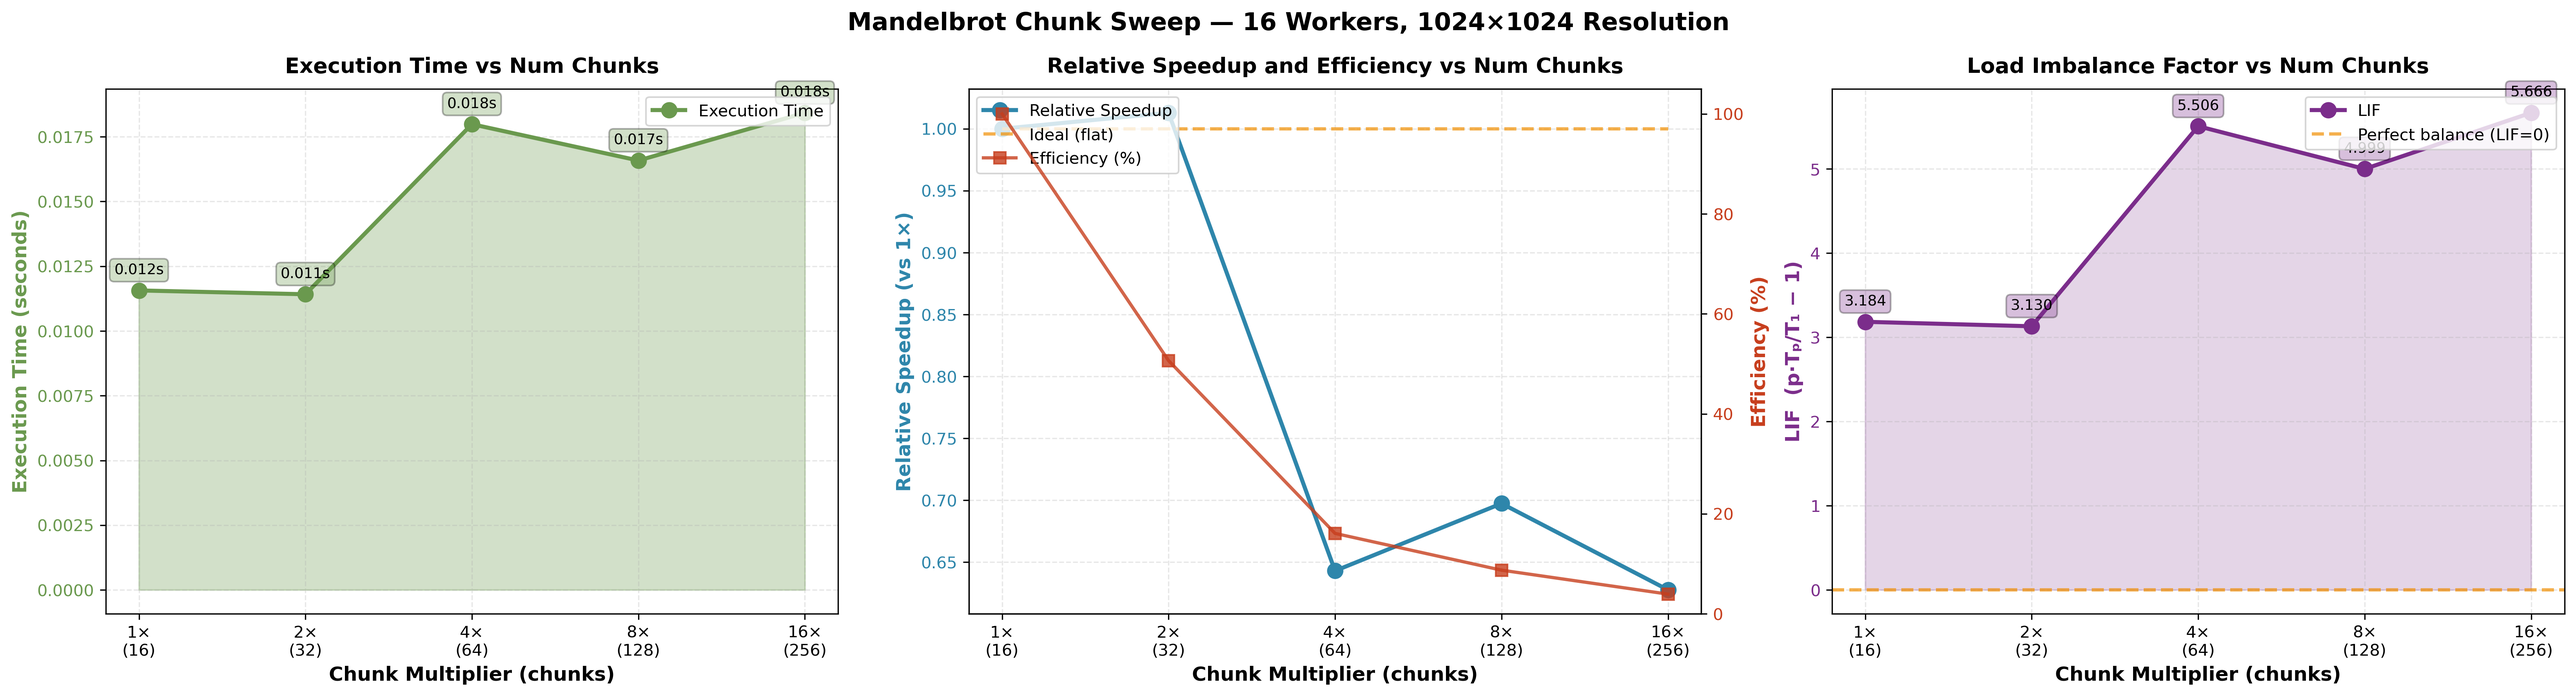
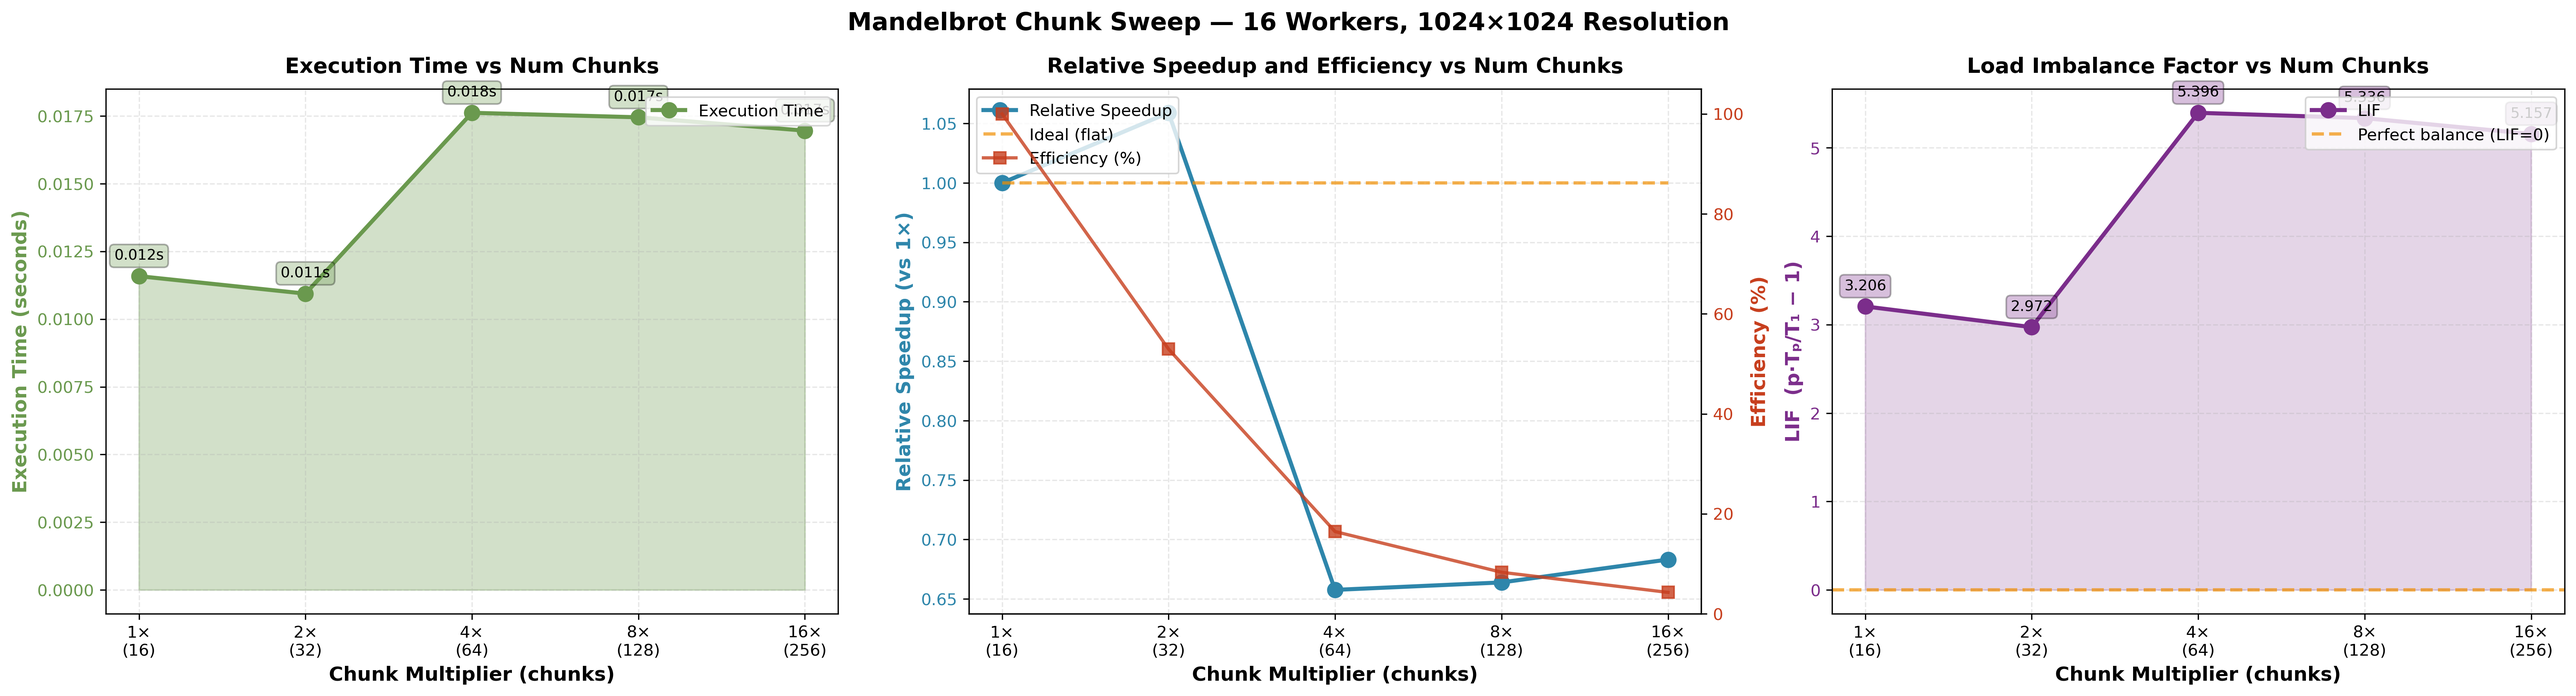
L5/M1-M3* - Omits fixed: T1 and LIF added to table and print.

diff --git a/cpu_parallelization/mandelbrot_numba_parallel.py b/cpu_parallelization/mandelbrot_numba_parallel.py
@@ -369,28 +369,28 @@ def parallel_benchmark_whole(N: int):
     ======================================================================
     Workers    Time (s)     Speedup      Efficiency (%) 
     ----------------------------------------------------------------------
-    1          0.0557       1.00         100.0          
-    2          0.0274       2.03         101.6          
-    3          0.0369       1.51         50.4           
-    4          0.0238       2.34         58.5           
-    5          0.0259       2.15         43.1           
-    6          0.0203       2.75         45.8           
-    7          0.0202       2.76         39.4           
-    8          0.0167       3.35         41.8           
-    9          0.0163       3.43         38.1           
-    10         0.0150       3.72         37.2           
-    11         0.0140       3.98         36.2           
-    12         0.0132       4.22         35.2           
-    13         0.0127       4.39         33.8           
-    14         0.0120       4.65         33.2           
-    15         0.0115       4.84         32.3           
-    16         0.0112       4.96         31.0           
+    1          0.0553       1.00         100.0          
+    2          0.0287       1.92         96.2           
+    3          0.0365       1.52         50.5           
+    4          0.0236       2.34         58.5           
+    5          0.0260       2.13         42.6           
+    6          0.0200       2.76         46.0           
+    7          0.0199       2.77         39.6           
+    8          0.0169       3.27         40.9           
+    9          0.0163       3.38         37.6           
+    10         0.0145       3.81         38.1           
+    11         0.0141       3.92         35.6           
+    12         0.0131       4.23         35.2           
+    13         0.0136       4.06         31.3           
+    14         0.0122       4.54         32.4           
+    15         0.0116       4.78         31.9           
+    16         0.0115       4.82         30.1           
     ======================================================================
     
     Key Metrics:
-      Serial time (1 worker):    0.0557s
-      Fastest time (16 workers): 0.0112s
-      Best speedup:              4.96x
+      Serial time (1 worker):    0.0553s
+      Fastest time (16 workers): 0.0115s
+      Best speedup:              4.82x
     
     ######################################################################
     
@@ -399,28 +399,28 @@ def parallel_benchmark_whole(N: int):
     ======================================================================
     Workers    Time (s)     Speedup      Efficiency (%) 
     ----------------------------------------------------------------------
-    1          0.9046       1.00         100.0          
-    2          0.5036       1.80         89.8           
-    3          0.5960       1.52         50.6           
-    4          0.3883       2.33         58.2           
-    5          0.4131       2.19         43.8           
-    6          0.3002       3.01         50.2           
-    7          0.2966       3.05         43.6           
-    8          0.2481       3.65         45.6           
-    9          0.2383       3.80         42.2           
-    10         0.2056       4.40         44.0           
-    11         0.1993       4.54         41.3           
-    12         0.1836       4.93         41.1           
-    13         0.1746       5.18         39.8           
-    14         0.1614       5.60         40.0           
-    15         0.1539       5.88         39.2           
-    16         0.1466       6.17         38.6           
+    1          0.9126       1.00         100.0          
+    2          0.5125       1.78         89.0           
+    3          0.6002       1.52         50.7           
+    4          0.4013       2.27         56.9           
+    5          0.4270       2.14         42.7           
+    6          0.3035       3.01         50.1           
+    7          0.2977       3.07         43.8           
+    8          0.2462       3.71         46.3           
+    9          0.2378       3.84         42.6           
+    10         0.2094       4.36         43.6           
+    11         0.2007       4.55         41.3           
+    12         0.1867       4.89         40.7           
+    13         0.1735       5.26         40.5           
+    14         0.1619       5.64         40.3           
+    15         0.1560       5.85         39.0           
+    16         0.1477       6.18         38.6           
     ======================================================================
     
     Key Metrics:
-      Serial time (1 worker):    0.9046s
-      Fastest time (16 workers): 0.1466s
-      Best speedup:              6.17x
+      Serial time (1 worker):    0.9126s
+      Fastest time (16 workers): 0.1477s
+      Best speedup:              6.18x
     """
 
 
@@ -557,17 +557,18 @@ def parallel_benchmark_chunkified(N: int):
     print(f"\nPlot saved as '{output_file}'")
 
     print(f"\n{'=' * 75}")
-    print(f"Chunk Sweep Summary ({N}×{N} resolution; {num_workers} workers):")
+    print(f"Chunk Sweep Summary ({N}×{N} resolution; {num_workers} workers; T1={T1:.4f}s):")
     print(f"{'=' * 75}")
-    print(f"{'Multiplier':<12} {'Chunks':<10} {'Time (s)':<12} {'Speedup':<12} {'Efficiency (%)':<15}")
+    print(f"{'Multiplier':<12} {'Chunks':<10} {'Time (s)':<12} {'Speedup':<12} {'Efficiency (%)':<16} {'LIF':<8}")
     print(f"{'-' * 75}")
     for i, (m, c) in enumerate(zip(chunk_multipliers, chunk_counts)):
         if m < 10:
-            print(f"{m}×{'':<10} {c:<10} {times_array[i]:<12.4f} {speedup[i]:<12.2f} {efficiency[i]:<15.1f}")
+            print(f"{m}×{'':<10} {c:<10} {times_array[i]:<12.4f} {speedup[i]:<12.2f} {efficiency[i]:<16.1f} {lif[i]:<8.3f}")
         else:
-            print(f"{m}×{'':<9} {c:<10} {times_array[i]:<12.4f} {speedup[i]:<12.2f} {efficiency[i]:<15.1f}")
+            print(f"{m}×{'':<9} {c:<10} {times_array[i]:<12.4f} {speedup[i]:<12.2f} {efficiency[i]:<16.1f} {lif[i]:<8.3f}")
     print(f"{'=' * 75}")
     print(f"\nKey Metrics:")
+    print(f"  Serial time T1:          {T1:.4f}s")
     print(f"  Baseline (1× / {num_workers} chunks): {baseline_time:.4f}s")
     print(f"  Fastest ({chunk_multipliers[np.argmin(times_array)]}× / "
           f"{chunk_counts[np.argmin(times_array)]} chunks): {times_array.min():.4f}s")
@@ -578,42 +579,44 @@ def parallel_benchmark_chunkified(N: int):
 
     """
     ===========================================================================
-    Chunk Sweep Summary (1024×1024 resolution; 16 workers):
+    Chunk Sweep Summary (1024×1024 resolution; 16 workers; T1=0.0441s):
     ===========================================================================
-    Multiplier   Chunks     Time (s)     Speedup      Efficiency (%) 
+    Multiplier   Chunks     Time (s)     Speedup      Efficiency (%)   LIF     
     ---------------------------------------------------------------------------
-    1×           16         0.0116       1.00         100.0          
-    2×           32         0.0114       1.01         50.6           
-    4×           64         0.0180       0.64         16.1           
-    8×           128        0.0166       0.70         8.7            
-    16×          256        0.0184       0.63         3.9            
+    1×           16         0.0116       1.00         100.0            3.206   
+    2×           32         0.0109       1.06         52.9             2.972   
+    4×           64         0.0176       0.66         16.4             5.396   
+    8×           128        0.0175       0.66         8.3              5.336   
+    16×          256        0.0170       0.68         4.3              5.157   
     ===========================================================================
     
     Key Metrics:
+      Serial time T1:          0.0441s
       Baseline (1× / 16 chunks): 0.0116s
-      Fastest (2× / 32 chunks): 0.0114s
-      Best relative speedup:   1.01x  @ 2× chunks
-      Min LIF (best balance):  3.130  @ 2× chunks
+      Fastest (2× / 32 chunks): 0.0109s
+      Best relative speedup:   1.06x  @ 2× chunks
+      Min LIF (best balance):  2.972  @ 2× chunks
     
     ###########################################################################
     
     ===========================================================================
-    Chunk Sweep Summary (4096×4096 resolution; 16 workers):
+    Chunk Sweep Summary (4096×4096 resolution; 16 workers; T1=0.7299s):
     ===========================================================================
-    Multiplier   Chunks     Time (s)     Speedup      Efficiency (%) 
+    Multiplier   Chunks     Time (s)     Speedup      Efficiency (%)   LIF     
     ---------------------------------------------------------------------------
-    1×           16         0.1461       1.00         100.0          
-    2×           32         0.1034       1.41         70.7           
-    4×           64         0.0983       1.49         37.1           
-    8×           128        0.1105       1.32         16.5           
-    16×          256        0.1021       1.43         8.9            
+    1×           16         0.1481       1.00         100.0            2.245   
+    2×           32         0.0989       1.50         74.8             1.168   
+    4×           64         0.1127       1.31         32.8             1.471   
+    8×           128        0.1379       1.07         13.4             2.022   
+    16×          256        0.1009       1.47         9.2              1.211   
     ===========================================================================
     
     Key Metrics:
-      Baseline (1× / 16 chunks): 0.1461s
-      Fastest (4× / 64 chunks): 0.0983s
-      Best relative speedup:   1.49x  @ 4× chunks
-      Min LIF (best balance):  1.162  @ 4× chunks
+      Serial time T1:          0.7299s
+      Baseline (1× / 16 chunks): 0.1481s
+      Fastest (2× / 32 chunks): 0.0989s
+      Best relative speedup:   1.50x  @ 2× chunks
+      Min LIF (best balance):  1.168  @ 2× chunks
     """
 
 
@@ -621,7 +624,7 @@ if __name__ == "__main__":
     # serial_sanity_check()
     # parallel_sanity_check()
     # parallel_timing()
-    parallel_benchmark_whole(1024)
-    parallel_benchmark_whole(4096)
+    #parallel_benchmark_whole(1024)
+    #parallel_benchmark_whole(4096)
     parallel_benchmark_chunkified(1024)
     parallel_benchmark_chunkified(4096)
